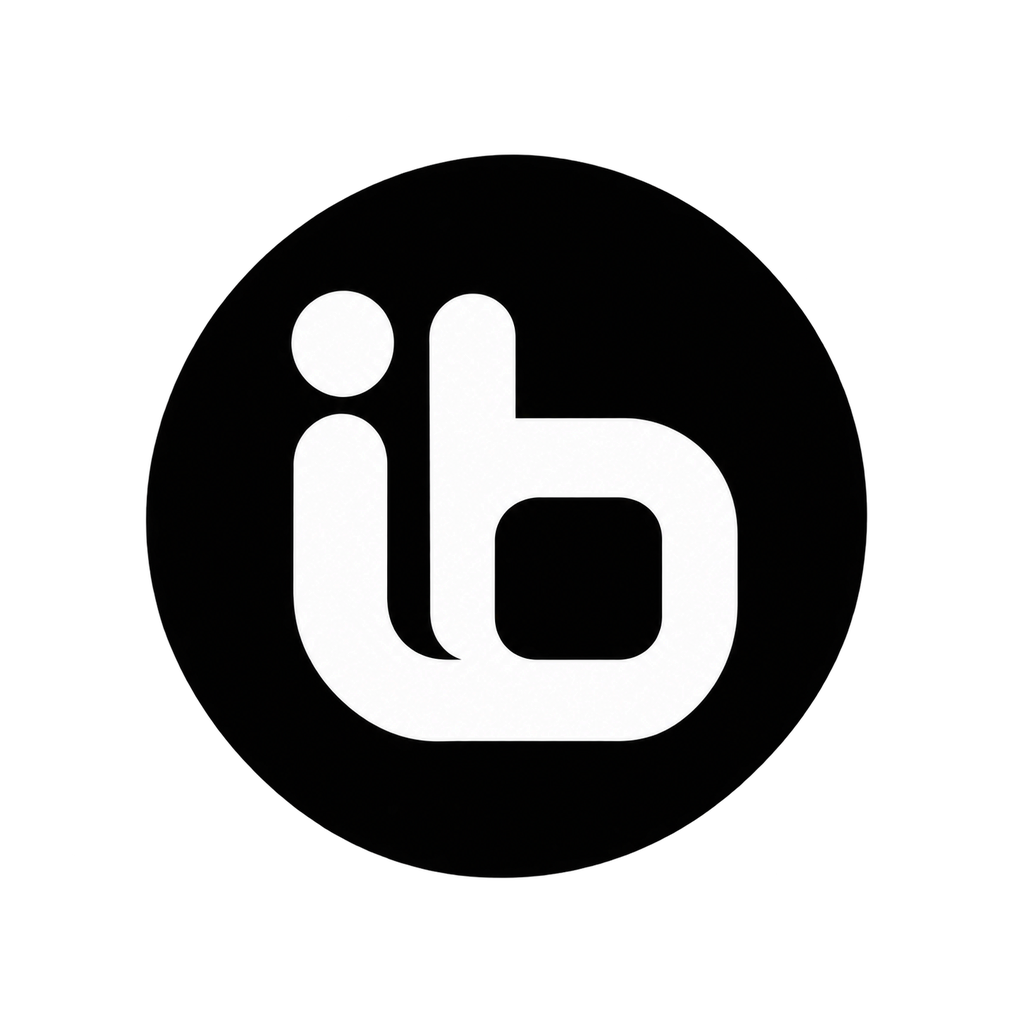
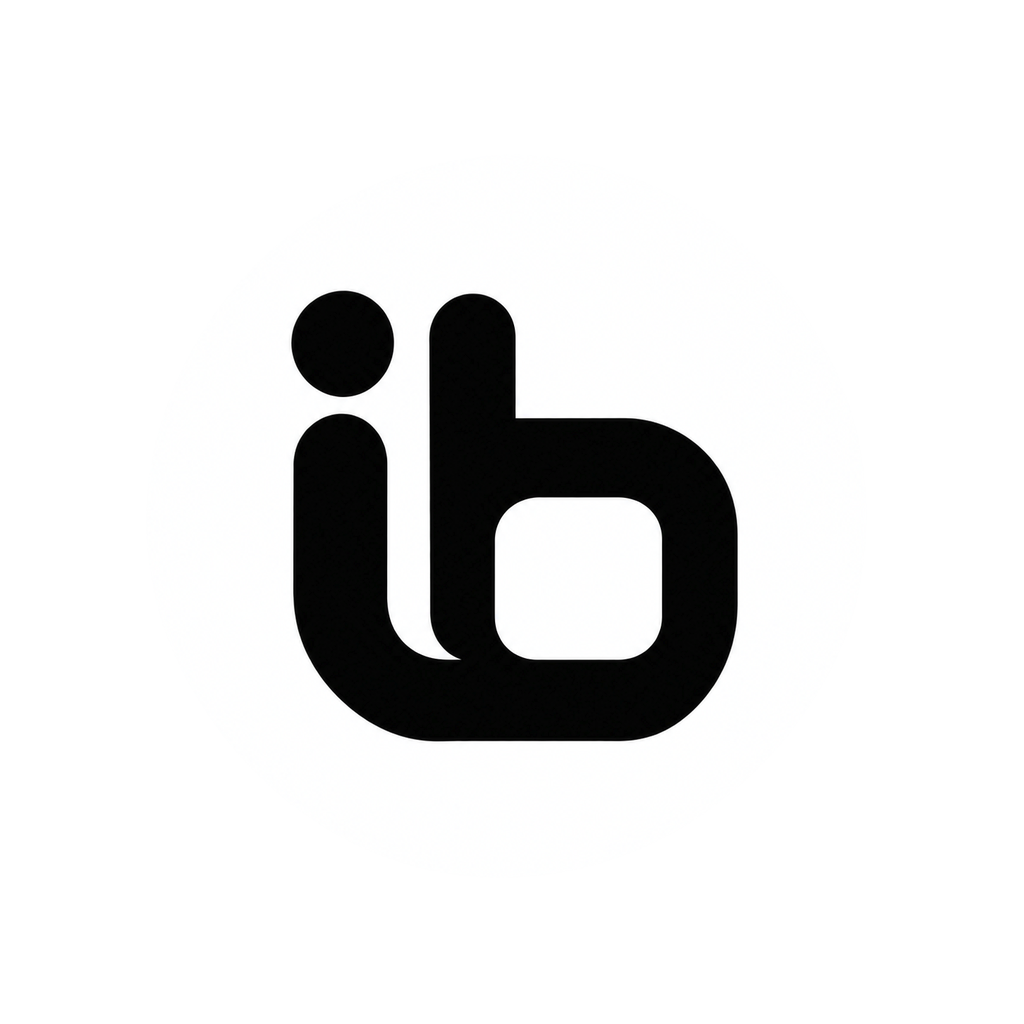
手機 App 2.1.2：開場改成粒子聚成 ib 標誌再變小球、App 圖示改成白底黑字

diff --git a/mobile/src/components/Launch.tsx b/mobile/src/components/Launch.tsx
@@ -1,6 +1,7 @@
-// 開場：ib 標誌 → b 的圈和 i 的點淡掉，剩兩條直線 → 變成小球，滑到今天頁右下角的位置。
-// 每次打開 App 播一次（約 1.6 秒），點一下跳過；開了「減少動態效果」就不播。
-import { useEffect, useRef, useState } from "react";
+// 開場：粒子從四周旋進中心、收成 ib 標誌 → b 的圈和 i 的點淡掉，剩兩條直線 → 變成小球，滑到今天頁右下角。
+// 全部用程式畫（不是影片），所以會跟著深淺色換：淺色是黑粒子黑球，深色是白粒子白球。
+// 每次打開 App 播一次（約 2.6 秒），點一下跳過；開了「減少動態效果」就不播。
+import { useEffect, useMemo, useRef, useState } from "react";
 import { Animated, Easing, Image, Pressable, StyleSheet, useWindowDimensions } from "react-native";
 import { useSafeAreaInsets } from "react-native-safe-area-context";
 import { L } from "@/lib/i18n";
@@ -10,6 +11,16 @@ import { dockBottom, LOGO, LOGO_INV } from "./Menu";
 import { Orb } from "./Orb";
 
 const SIZE = 140;
+const DOTS = 170;
+
+/** 固定的亂數（每次開場粒子的位置都一樣，不會有時好看有時醜） */
+function seeded(seed: number) {
+  let s = seed;
+  return () => {
+    s = (s * 1664525 + 1013904223) % 4294967296;
+    return s / 4294967296;
+  };
+}
 
 /** toToday：已經配對、會進到今天頁，小球才滑到右下角；還沒配對就原地淡出 */
 export function Launch({ onDone, toToday }: { onDone: () => void; toToday: boolean }) {
@@ -17,11 +28,17 @@ export function Launch({ onDone, toToday }: { onDone: () => void; toToday: boole
   const { width: W, height: H } = useWindowDimensions();
   const insets = useSafeAreaInsets();
   const [gone, setGone] = useState(false);
+  const gather = useRef(new Animated.Value(0)).current; // 粒子聚攏
   const logo = useRef(new Animated.Value(0)).current; // 標誌出現
   const swap = useRef(new Animated.Value(0)).current; // 標誌換成小球
   const move = useRef(new Animated.Value(0)).current; // 小球滑到定位
   const veil = useRef(new Animated.Value(1)).current;
   const finished = useRef(false);
+  // onDone 每次重畫都是新的函式：放在 ref 裡，動畫才不會因為外層重畫而重來
+  const doneRef = useRef(onDone);
+  doneRef.current = onDone;
+  const goRef = useRef(toToday);
+  goRef.current = toToday;
 
   const finish = (fast: boolean) => {
     if (finished.current) return;
@@ -33,11 +50,6 @@ export function Launch({ onDone, toToday }: { onDone: () => void; toToday: boole
   };
   const finishRef = useRef(finish);
   finishRef.current = finish;
-  const goRef = useRef(toToday);
-  goRef.current = toToday;
-  // onDone 每次重畫都是新的函式：放在 ref 裡，動畫才不會因為外層重畫而重來
-  const doneRef = useRef(onDone);
-  doneRef.current = onDone;
 
   useEffect(() => {
     if (reduceMotion()) {
@@ -45,8 +57,11 @@ export function Launch({ onDone, toToday }: { onDone: () => void; toToday: boole
       return;
     }
     const anim = Animated.sequence([
-      Animated.timing(logo, { toValue: 1, duration: 360, easing: Easing.out(Easing.cubic), useNativeDriver: true }),
-      Animated.delay(420),
+      Animated.parallel([
+        Animated.timing(gather, { toValue: 1, duration: 1250, easing: Easing.inOut(Easing.cubic), useNativeDriver: true }),
+        Animated.timing(logo, { toValue: 1, duration: 380, delay: 900, easing: Easing.out(Easing.cubic), useNativeDriver: true }),
+      ]),
+      Animated.delay(320),
       Animated.timing(swap, { toValue: 1, duration: 320, easing: Easing.inOut(Easing.quad), useNativeDriver: true }),
       Animated.delay(120),
     ]);
@@ -62,14 +77,39 @@ export function Launch({ onDone, toToday }: { onDone: () => void; toToday: boole
         doneRef.current();
       });
     });
-    // 萬一動畫沒跑起來，最多等 4 秒就放行
-    const timer = setTimeout(() => finishRef.current(true), 4000);
+    // 萬一動畫沒跑起來，最多等 5 秒就放行
+    const timer = setTimeout(() => finishRef.current(true), 5000);
     return () => {
       anim.stop();
       clearTimeout(timer);
     };
     // eslint-disable-next-line react-hooks/exhaustive-deps
   }, []);
+
+  // 粒子：從外圈的隨機位置出發，落到標誌那個圓裡；每顆出發的時間差一點，整群邊收邊轉
+  const dots = useMemo(() => {
+    const rnd = seeded(20261121);
+    const far = Math.hypot(W, H) / 2;
+    return Array.from({ length: DOTS }, () => {
+      const a0 = rnd() * Math.PI * 2;
+      const r0 = far * (0.45 + rnd() * 0.6);
+      const a1 = a0 + 1.1 + rnd() * 0.9; // 往內的同時繞一小段
+      const r1 = (SIZE / 2) * Math.sqrt(rnd()) * 0.92;
+      const d = rnd() * 0.3; // 出發的時間
+      const size = 2.5 + rnd() * 3;
+      const range = [d, d + 0.7];
+      return {
+        size,
+        style: {
+          opacity: gather.interpolate({ inputRange: [d, d + 0.12, d + 0.62, d + 0.7], outputRange: [0, 0.9, 0.9, 0], extrapolate: "clamp" as const }),
+          transform: [
+            { translateX: gather.interpolate({ inputRange: range, outputRange: [Math.cos(a0) * r0, Math.cos(a1) * r1], extrapolate: "clamp" as const }) },
+            { translateY: gather.interpolate({ inputRange: range, outputRange: [Math.sin(a0) * r0, Math.sin(a1) * r1], extrapolate: "clamp" as const }) },
+          ],
+        },
+      };
+    });
+  }, [gather, W, H]);
 
   if (gone) return null;
   // 今天頁那顆小球的位置與大小（跟今天頁同一套算法）
@@ -81,6 +121,11 @@ export function Launch({ onDone, toToday }: { onDone: () => void; toToday: boole
   return (
     <Pressable onPress={() => finish(true)} accessibilityRole="button" accessibilityLabel={L("ideabox 開場動畫，點一下跳過", "ideabox intro. Tap to skip")} style={[StyleSheet.absoluteFill, { zIndex: 1000 }]}>
       <Animated.View style={[StyleSheet.absoluteFill, { backgroundColor: t.bg, opacity: veil }]} />
+      <Animated.View pointerEvents="none" style={{ position: "absolute", left: W / 2, top: H / 2, opacity: veil, transform: [{ rotate: gather.interpolate({ inputRange: [0, 1], outputRange: ["-18deg", "0deg"] }) }] }}>
+        {dots.map((d, i) => (
+          <Animated.View key={i} style={[{ position: "absolute", left: -d.size / 2, top: -d.size / 2, width: d.size, height: d.size, borderRadius: d.size / 2, backgroundColor: t.ink }, d.style]} />
+        ))}
+      </Animated.View>
       <Animated.View
         style={[center, {
           opacity: Animated.multiply(swap, veil.interpolate({ inputRange: [0, 0.4, 1], outputRange: [0, 1, 1] })),
@@ -93,7 +138,7 @@ export function Launch({ onDone, toToday }: { onDone: () => void; toToday: boole
       >
         <Orb size={SIZE} still shadow={false} />
       </Animated.View>
-      <Animated.View style={[center, { opacity: Animated.multiply(logo, swap.interpolate({ inputRange: [0, 1], outputRange: [1, 0] })), transform: [{ scale: logo.interpolate({ inputRange: [0, 1], outputRange: [0.9, 1] }) }] }]}>
+      <Animated.View style={[center, { opacity: Animated.multiply(logo, swap.interpolate({ inputRange: [0, 1], outputRange: [1, 0] })), transform: [{ scale: logo.interpolate({ inputRange: [0, 1], outputRange: [0.86, 1] }) }] }]}>
         <Image source={t.dark ? LOGO_INV : LOGO} style={{ width: SIZE, height: SIZE }} />
       </Animated.View>
     </Pressable>
